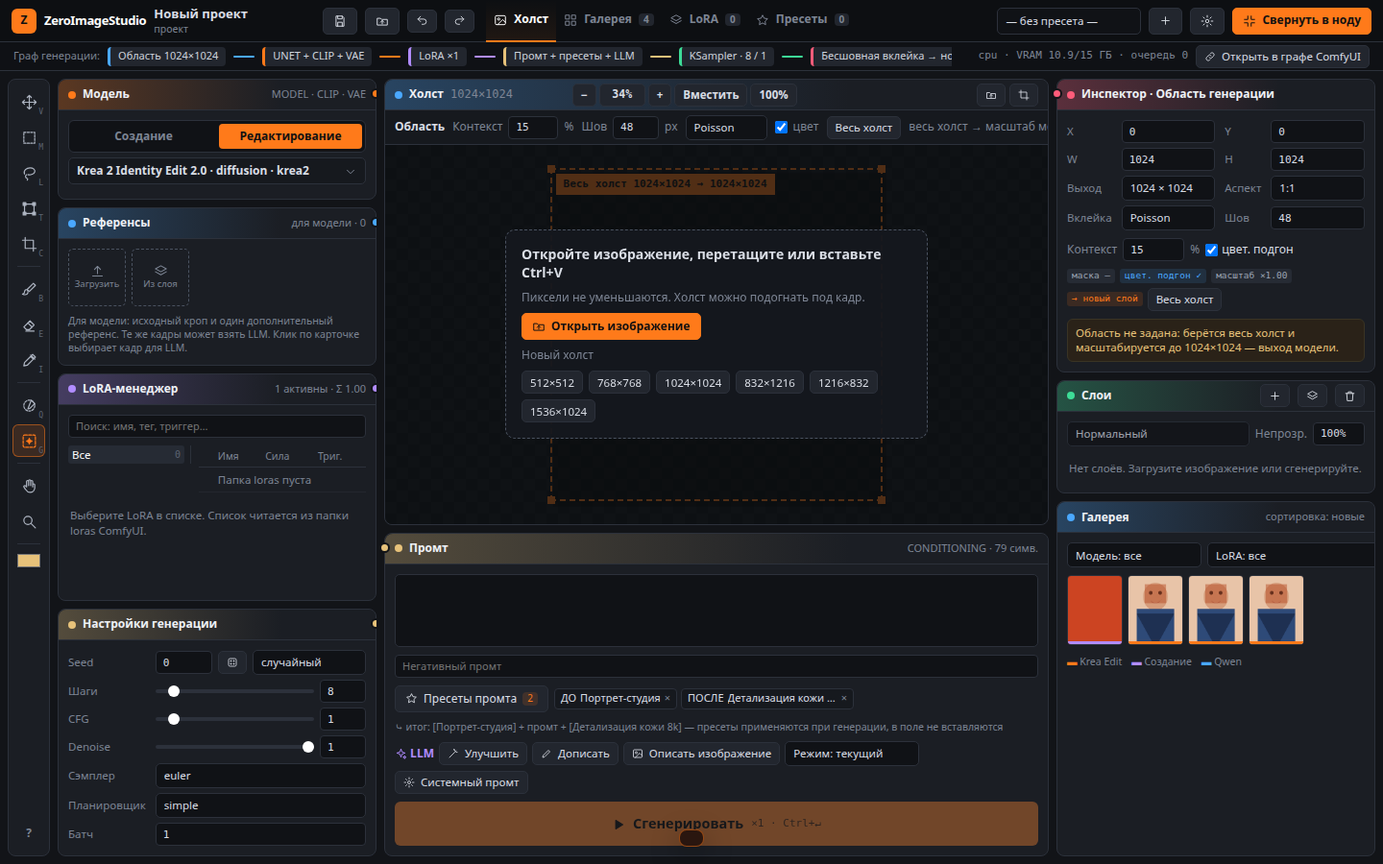
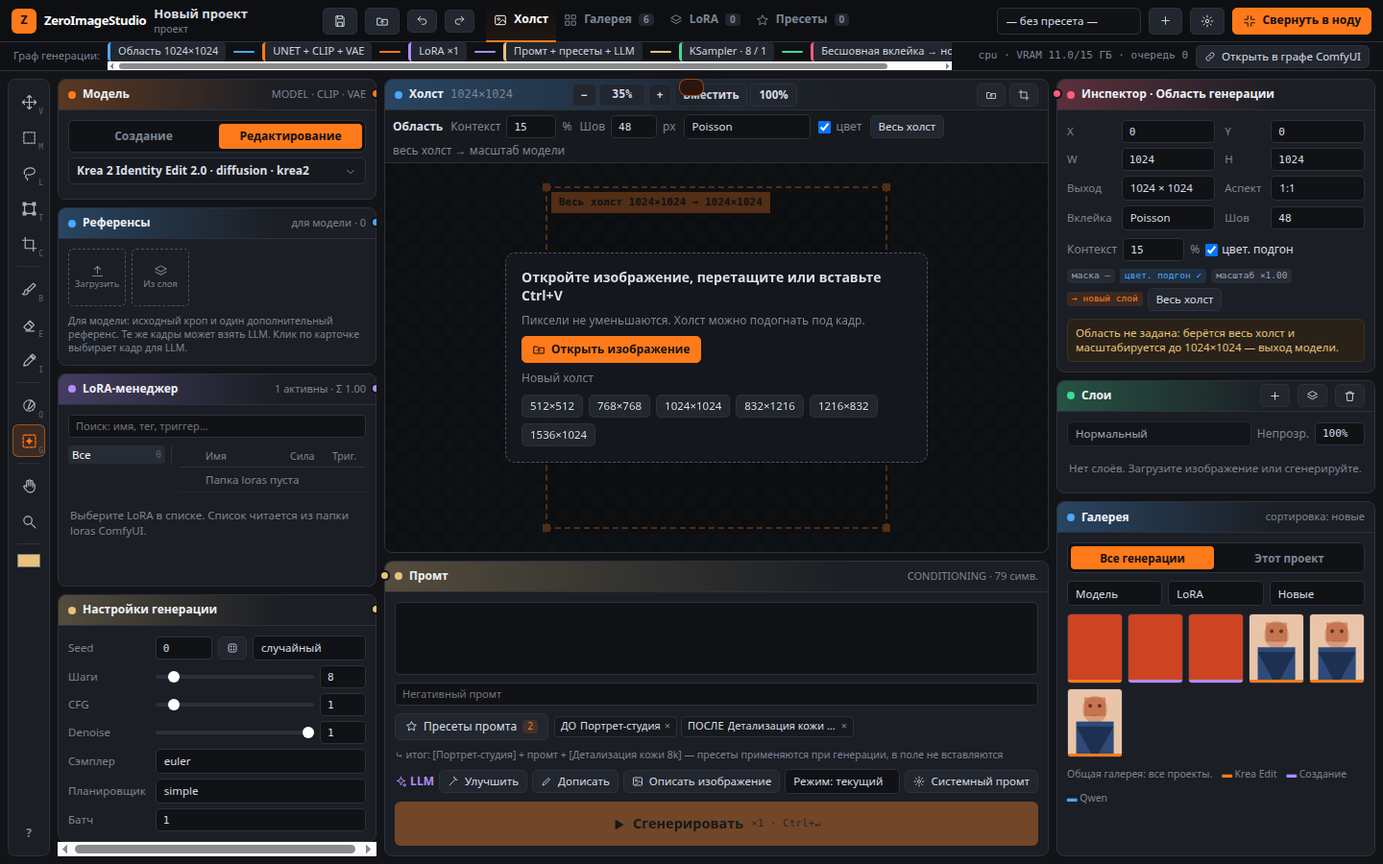
Keep options, gallery filters, and toasts inside the frame.
The tool bar wraps with shorter sliders, gallery filters shrink, toasts sit under the top bar, and the gallery can show every run or only this project.

diff --git a/web/zeroimagestudio.css b/web/zeroimagestudio.css
@@ -17,7 +17,7 @@ button, input, select, textarea { font: inherit; color: inherit; background: non
 button { cursor: pointer; }
 .i { display: inline-block; vertical-align: middle; flex: none; }
 .mono { font-family: "IBM Plex Mono", ui-monospace, monospace; }
-.row { display: flex; align-items: center; gap: 6px; }
+.row { display: flex; align-items: center; gap: 6px; min-width: 0; flex-wrap: wrap; }
 .mu { color: var(--mu); }
 .top {
   height: 44px; background: #0d0f12; border-bottom: 1px solid var(--ln);
@@ -46,7 +46,7 @@ button { cursor: pointer; }
   height: 26px; border-radius: 5px; background: #101216; border: 1px solid var(--ln);
   display: flex; align-items: center; gap: 6px; padding: 0 8px; white-space: nowrap; font-size: 11.5px; color: var(--tx);
 }
-select.dd { appearance: none; }
+select.dd { appearance: none; min-width: 0; max-width: 100%; }
 .pipe {
   height: 30px; background: #0f1115; border-bottom: 1px solid var(--ln);
   display: flex; align-items: center; padding: 0 14px; gap: 8px; font-size: 11px; overflow: hidden;
@@ -69,7 +69,7 @@ select.dd { appearance: none; }
   flex-wrap: nowrap; min-width: 0; overflow: hidden; white-space: nowrap;
 }
 .nh .d { width: 8px; height: 8px; border-radius: 50%; background: var(--c); flex: none; }
-.nh .r { margin-left: auto; display: flex; gap: 8px; align-items: center; color: var(--mu); font-weight: 500; font-size: 11px; }
+.nh .r { margin-left: auto; display: flex; gap: 8px; align-items: center; color: var(--mu); font-weight: 500; font-size: 11px; min-width: 0; overflow: hidden; text-overflow: ellipsis; }
 .sock { position: absolute; width: 11px; height: 11px; border-radius: 50%; background: var(--c); border: 2px solid var(--bg); top: 9px; }
 .sock.l { left: -6px; } .sock.r { right: -6px; }
 .nb { padding: 8px 10px; display: flex; flex-direction: column; gap: 7px; min-height: 0; overflow: auto; }
@@ -93,11 +93,13 @@ select.dd { appearance: none; }
 .mrow {
   display: flex; align-items: center; gap: 8px; padding: 6px 8px; border-radius: 5px;
   border: 1px solid var(--ln); background: #16191e; width: 100%; text-align: left; color: var(--tx);
+  flex-wrap: wrap; row-gap: 4px;
 }
 .mrow.on { border-color: var(--ac); background: var(--ac2); }
 .mrow .rd { width: 12px; height: 12px; border-radius: 50%; border: 2px solid #5d6472; flex: none; }
 .mrow.on .rd { border-color: var(--ac); box-shadow: inset 0 0 0 2px #1b1e24; background: var(--ac); }
-.mrow b { font-weight: 600; } .mrow .tg { margin-left: auto; display: flex; gap: 4px; }
+.mrow b { font-weight: 600; flex: 1 1 auto; min-width: 0; overflow: hidden; text-overflow: ellipsis; white-space: nowrap; }
+.mrow .tg { margin-left: 0; padding-left: 20px; box-sizing: border-box; display: flex; gap: 4px; flex: 1 0 100%; min-width: 0; }
 .tag {
   font-size: 9.5px; padding: 1px 5px; border-radius: 3px; background: #262b34; color: #9aa3b2;
   font-family: "IBM Plex Mono", ui-monospace, monospace; white-space: nowrap;
@@ -107,8 +109,12 @@ select.dd { appearance: none; }
 .tag.tbl { background: rgba(74, 168, 255, .13); color: var(--bl); }
 .tag.tvi { background: rgba(177, 140, 255, .14); color: var(--vi); }
 table { border-collapse: collapse; width: 100%; }
-.lt th { font-weight: 500; color: var(--mu); font-size: 10.5px; text-align: left; padding: 4px 5px; border-bottom: 1px solid var(--ln); white-space: nowrap; }
-.lt td { padding: 5px 5px; border-bottom: 1px solid #23272f; font-size: 11.5px; white-space: nowrap; }
+.lt { table-layout: fixed; }
+.lt th { font-weight: 500; color: var(--mu); font-size: 10.5px; text-align: left; padding: 4px 5px; border-bottom: 1px solid var(--ln); white-space: nowrap; overflow: hidden; text-overflow: ellipsis; }
+.lt td { padding: 5px 5px; border-bottom: 1px solid #23272f; font-size: 11.5px; white-space: nowrap; overflow: hidden; text-overflow: ellipsis; }
+.lt th:first-child, .lt td:first-child { width: 22px; }
+.lt th:nth-child(3), .lt td:nth-child(3) { width: 44px; }
+.lt th:nth-child(4), .lt td:nth-child(4) { width: 40px; }
 .lt tr.on td { background: var(--ac2); }
 .lt tr { cursor: pointer; }
 .cb { width: 13px; height: 13px; border-radius: 3px; border: 1.5px solid #5d6472; display: inline-block; vertical-align: middle; }
@@ -124,8 +130,9 @@ table { border-collapse: collapse; width: 100%; }
   background: #262b34; color: #e7c27a; border: 1px solid #3a3424; font-family: "IBM Plex Mono", ui-monospace, monospace; cursor: pointer;
 }
 .tw.on { color: var(--gr); border-color: #21503c; background: rgba(61, 220, 151, .08); }
-.kv { display: grid; grid-template-columns: auto 1fr; gap: 5px 10px; align-items: center; font-size: 11.5px; }
+.kv { display: grid; grid-template-columns: auto minmax(0, 1fr); gap: 5px 10px; align-items: center; font-size: 11.5px; min-width: 0; }
 .kv > span:nth-child(odd) { color: var(--mu); }
+.kv select, .kv input, .kv .row { min-width: 0; max-width: 100%; }
 .f, input.f, textarea.f {
   height: 24px; border-radius: 4px; background: #101216; border: 1px solid var(--ln);
   display: flex; align-items: center; padding: 0 7px; font-family: "IBM Plex Mono", ui-monospace, monospace; font-size: 11px; gap: 5px; color: var(--tx); min-width: 0;
@@ -134,7 +141,7 @@ textarea.prompt {
   width: 100%; resize: none; height: 62px; padding: 8px 10px; line-height: 1.5; font-family: inherit; font-size: 13px;
   background: #101216; border: 1px solid var(--ln); border-radius: 5px; color: var(--tx);
 }
-input.range { -webkit-appearance: none; appearance: none; height: 4px; border-radius: 2px; background: #2c313b; flex: 1; outline: none; }
+input.range { -webkit-appearance: none; appearance: none; height: 4px; border-radius: 2px; background: #2c313b; flex: 1; min-width: 0; outline: none; }
 input.range::-webkit-slider-thumb { -webkit-appearance: none; width: 12px; height: 12px; border-radius: 50%; background: #fff; cursor: pointer; }
 .stage {
   flex: 1; position: relative; background: #0e1013; border-radius: 0 0 8px 8px; overflow: hidden; min-height: 0;
@@ -210,10 +217,11 @@ input.range::-webkit-slider-thumb { -webkit-appearance: none; width: 12px; heigh
 }
 .modal textarea { min-height: 80px; resize: vertical; }
 .toast {
-  position: fixed; left: 50%; bottom: 18px; transform: translateX(-50%);
+  position: fixed; left: 50%; top: 82px; bottom: auto; transform: translateX(-50%);
   background: #2a160f; border: 1px solid rgba(255, 122, 26, .5); color: #ffd7bf;
   padding: 8px 12px; border-radius: 8px; z-index: 30; max-width: min(640px, calc(100vw - 24px));
-  box-shadow: 0 10px 30px rgba(0, 0, 0, .4);
+  box-shadow: 0 10px 30px rgba(0, 0, 0, .4); flex-wrap: wrap; justify-content: center;
+  pointer-events: auto;
 }
 .banner {
   background: #2a2218; color: #e7c27a; border: 1px solid #3a3424; border-radius: 6px; padding: 6px 8px; font-size: 11.5px;
@@ -228,14 +236,15 @@ body[data-tab="gallery"] .left, body[data-tab="gallery"] .center, body[data-tab=
 body[data-tab="gallery"] .right { width: auto !important; flex: 1; }
 body[data-tab="gallery"] .gal { grid-template-columns: repeat(auto-fill, minmax(120px, 1fr)); }
 .left, .right, .center { min-height: 0; min-width: 0; }
+.right .node, .left .node, .center .node { min-width: 0; max-width: 100%; }
 .left { width: 400px; display: flex; flex-direction: column; gap: 8px; flex: none; }
 .right { width: 400px; display: flex; flex-direction: column; gap: 8px; flex: none; }
 .center { flex: 1; display: flex; flex-direction: column; gap: 8px; min-width: 0; }
 details.adv { color: var(--mu); }
 details.adv summary { cursor: pointer; font-size: 11px; }
 .files { display: flex; flex-direction: column; gap: 4px; }
-.files label { display: grid; grid-template-columns: 72px 1fr; gap: 6px; align-items: center; font-size: 11px; color: var(--mu); }
-.files select, .files input { width: 100%; }
+.files label { display: grid; grid-template-columns: 72px minmax(0, 1fr); gap: 6px; align-items: center; font-size: 11px; color: var(--mu); min-width: 0; }
+.files select, .files input { width: 100%; min-width: 0; max-width: 100%; }
 .empty { color: var(--mu); font-size: 11.5px; padding: 8px 2px; }
 .progress-line { height: 3px; background: #3a2a22; border-radius: 2px; overflow: hidden; }
 .progress-line i { display: block; height: 100%; background: var(--ac); width: 0%; }
@@ -272,7 +281,7 @@ body { min-width: 0; }
 .left { overflow-y: auto; }
 .lora-node { flex: 1 1 auto; min-height: 200px; }
 #sampler-box .row { min-width: 0; }
-#seed-mode { width: auto; min-width: 118px; flex: none; }
+#seed-mode { width: auto; min-width: 0; max-width: 100%; flex: 0 1 118px; }
 textarea.prompt { height: 76px; }
 .model-sum {
   display: flex; align-items: center; gap: 8px; width: 100%; min-height: 28px; padding: 4px 8px;
@@ -325,12 +334,17 @@ textarea.prompt { height: 76px; }
 .zoom-read { min-width: 48px; justify-content: center; font-family: "IBM Plex Mono", ui-monospace, monospace; }
 .canvas-head .r { flex: none; gap: 4px; min-width: 0; }
 .opts {
-  flex: none; min-height: 36px; display: flex; align-items: center; gap: 8px; flex-wrap: nowrap;
-  padding: 4px 10px; border-bottom: 1px solid var(--ln); background: #16191e; overflow-x: auto; overflow-y: hidden;
+  flex: none; display: flex; align-items: center; align-content: center; gap: 6px 10px; flex-wrap: wrap;
+  padding: 5px 10px; border-bottom: 1px solid var(--ln); background: #16191e;
+  overflow: visible; min-width: 0; max-width: 100%;
 }
+.opts > * { min-width: 0; max-width: 100%; }
 .opts .mu { white-space: nowrap; }
-.opts label { display: inline-flex; align-items: center; gap: 6px; white-space: nowrap; color: var(--mu); }
-.opts input.range { width: 88px; flex: none; }
+.opts b { flex: none; }
+.opts label { display: inline-flex; align-items: center; gap: 6px; white-space: nowrap; color: var(--mu); flex: 0 1 auto; }
+.opts input.range { width: 72px; min-width: 48px; flex: none; }
+.opts select.dd { flex: 0 1 132px; width: auto; min-width: 0; max-width: 100%; }
+.opts input.f { width: auto; max-width: 64px; }
 .empty-stage {
   position: absolute; inset: 0; z-index: 4; display: flex; align-items: center; justify-content: center;
   background: rgba(14, 16, 19, .72); padding: 16px;
@@ -368,7 +382,40 @@ textarea.prompt { height: 76px; }
 .left, .right, .center { gap: 8px; }
 .nb { padding: 10px; gap: 8px; }
 .empty-gal { color: var(--mu); padding: 18px 8px; line-height: 1.45; }
+.gal-scope {
+  display: flex; gap: 4px; min-width: 0; width: 100%;
+  background: #101216; border: 1px solid var(--ln); border-radius: 6px; padding: 3px;
+}
+.gal-scope button {
+  flex: 1 1 0; min-width: 0; height: 24px; border-radius: 4px; color: var(--mu);
+  font-weight: 700; font-size: 11.5px; padding: 0 6px;
+  overflow: hidden; text-overflow: ellipsis; white-space: nowrap;
+}
+.gal-scope button.on { background: var(--ac); color: #111; }
+.gal-filters { width: 100%; min-width: 0; flex-wrap: nowrap; }
+.gal-filters select {
+  flex: 1 1 0; width: 0; min-width: 0; max-width: 100%;
+  overflow: hidden; text-overflow: ellipsis;
+}
+.layer-blend { width: 100%; min-width: 0; flex-wrap: nowrap; }
+.layer-blend select { flex: 1 1 auto; min-width: 0; width: 0; max-width: 100%; }
+.layer-blend .mu { flex: none; }
+.layer-blend input { width: 52px; flex: none; }
+.llm-row { width: 100%; }
+.llm-row #llm-preset { width: auto; flex: 1 1 96px; min-width: 0; max-width: 180px; }
+.lora-split { display: flex; align-items: flex-start; gap: 8px; min-width: 0; width: 100%; }
+.lora-split .tree { width: 108px; flex: none; border-right: 1px solid var(--ln); padding-right: 6px; max-height: 180px; overflow: auto; }
+.lora-split .lora-table { flex: 1; min-width: 0; max-height: 180px; overflow: auto; }
+.preset-cols { display: flex; align-items: flex-start; gap: 16px; min-width: 0; width: 100%; }
+.preset-cols > div { flex: 1 1 280px; min-width: 0; }
+.preset-cols .row { flex-wrap: nowrap; }
+.preset-cols .row .b { flex: none; }
+.preset-cols input, .preset-cols textarea { min-width: 0; max-width: 100%; }
+#inspector .row { min-width: 0; }
+#inspector select, #inspector input { min-width: 0; max-width: 100%; }
 @media (max-width: 1500px) {
   .canvas-head .btn-label { display: none; }
+  .opts input.range { width: 48px; min-width: 40px; }
+  .opts { gap: 4px 8px; padding: 4px 8px; }
 }
 .toolcol { overflow: auto; }

diff --git a/web/zeroimagestudio_app.js b/web/zeroimagestudio_app.js
@@ -40,6 +40,7 @@
     loraSelected: "",
     presets: [],
     gallery: [],
+    galleryScope: "all",
     settings: null,
     running: false,
     promptId: null,
@@ -891,7 +892,7 @@
     host.innerHTML = list.map((h) => {
       const on = h.id === state.hintId;
       const tags = hintTags(h, state.pipeline).map((t, i) => `<span class="tag ${on && i === 0 ? "to" : ""}">${escapeHtml(t)}</span>`).join("");
-      return `<button type="button" class="mrow ${on ? "on" : ""}" data-hint="${h.id}"><span class="rd"></span><b>${escapeHtml(h.name)}</b><span class="tg">${tags}</span></button>`;
+      return `<button type="button" class="mrow ${on ? "on" : ""}" data-hint="${h.id}" title="${escapeHtml(h.name)}"><span class="rd"></span><b>${escapeHtml(h.name)}</b><span class="tg">${tags}</span></button>`;
     }).join("") || '<div class="empty">Нет моделей для этого режима.</div>';
   }
 
@@ -1021,9 +1022,9 @@
     const detail = sel ? loraDetail(sel) : `<div class="empty">Выберите LoRA в списке. Список читается из папки loras ComfyUI.</div>`;
     $("lora-panel").innerHTML = `
       <div class="row"><input id="lora-search" class="f" style="flex:1;font-family:inherit" placeholder="Поиск: имя, тег, триггер…" value="${escapeHtml(state.loraQuery)}"></div>
-      <div class="row" style="align-items:flex-start;gap:8px;min-height:0">
-        <div class="tree" style="width:128px;border-right:1px solid var(--ln);padding-right:6px;max-height:180px;overflow:auto">${tree}</div>
-        <div style="flex:1;min-width:0;max-height:180px;overflow:auto">
+      <div class="lora-split">
+        <div class="tree">${tree}</div>
+        <div class="lora-table">
           <table class="lt"><tr><th></th><th>Имя</th><th>Сила</th><th>Триг.</th></tr>${rows || `<tr><td></td><td class="mu" colspan="3">${files.length ? "Ничего не найдено" : "Папка loras пуста"}</td></tr>`}</table>
         </div>
       </div>
@@ -1115,7 +1116,7 @@
     const a = state.area;
     const scale = (g.w > 0) ? (a.outW / g.w) : 1;
     $("inspector").innerHTML = `
-      <div class="kv" style="grid-template-columns:auto 1fr auto 1fr">
+      <div class="kv" style="grid-template-columns:auto minmax(0,1fr) auto minmax(0,1fr)">
         <span>X</span><input id="gx" class="f" value="${g.x}"><span>Y</span><input id="gy" class="f" value="${g.y}">
         <span>W</span><input id="gw" class="f" value="${g.w}"><span>H</span><input id="gh" class="f" value="${g.h}">
         <span>Выход</span><select id="gout" class="dd">${[[1024,1024],[768,768],[512,512],[1056,1056],[1280,720],[832,1216],[1536,1024]].map(([w,h]) => `<option ${a.outW===w&&a.outH===h?"selected":""} value="${w}x${h}">${w} × ${h}</option>`).join("")}<option value="custom" ${[[1024,1024],[768,768],[512,512],[1056,1056],[1280,720],[832,1216],[1536,1024]].some(([w,h])=>w===a.outW&&h===a.outH)?"":"selected"}>свои</option></select>
@@ -1595,37 +1596,58 @@
     $("preset-count").textContent = String(state.presets.length);
   }
 
+  function galleryInProject(it) {
+    const pid = state.projectId || "";
+    return !!pid && (it.meta.project_id || "") === pid;
+  }
+
   function renderGallery() {
     const host = $("gal");
-    let items = state.gallery.slice();
+    const scope = state.galleryScope === "project" ? "project" : "all";
+    document.querySelectorAll("#gal-scope button").forEach((b) => b.classList.toggle("on", b.dataset.scope === scope));
+    const allReal = state.gallery.filter((it) => !it.example);
+    const projectReal = allReal.filter(galleryInProject);
+    const scopeAll = $("gal-scope").querySelector('[data-scope="all"]');
+    const scopeProject = $("gal-scope").querySelector('[data-scope="project"]');
+    if (scopeAll) scopeAll.textContent = "Все генерации";
+    if (scopeProject) scopeProject.textContent = "Этот проект";
+    let items = (scope === "project" ? projectReal : allReal).slice();
     const model = $("gal-model").value;
     const lora = $("gal-lora").value;
     if (model) items = items.filter((it) => (it.meta.model_label || it.meta.unet || "") === model);
     if (lora) items = items.filter((it) => (it.meta.loras || []).some((l) => l.name === lora));
     if ($("gal-sort").value === "old") items.reverse();
-    const real = items.filter((it) => !it.example);
     const colors = { krea2_edit: "#ff7a1a", qwen_image_21: "#4aa8ff", create: "#b18cff" };
-    if (!real.length) {
-      if (new URLSearchParams(location.search).get("demo") === "1") {
+    const scopeNote = scope === "project"
+      ? "Только кадры этого проекта."
+      : "Общая галерея: все проекты.";
+    if (!items.length) {
+      if (scope === "all" && new URLSearchParams(location.search).get("demo") === "1" && !allReal.length) {
         const examples = ["portrait-copper.svg", "portrait-blond.svg", "portrait-blue.svg", "portrait.svg", "portrait-green.svg"];
         host.innerHTML = examples.map((s, i) => `<button type="button" class="g" data-example="1"><img src="assets/${s}" alt=""><s style="background:${["#ff7a1a","#b18cff","#4aa8ff","#7d8594","#3ddc97"][i]}"></s></button>`).join("");
         $("gal-legend").innerHTML = "<span>Демо-оформление (?demo=1), не генерации.</span>";
+      } else if (scope === "project") {
+        host.innerHTML = `<div class="empty-gal">В этом проекте ещё нет генераций. Общие кадры из других запусков — в «Все генерации».</div>`;
+        $("gal-legend").innerHTML = `<span>${scopeNote}</span>`;
       } else {
         host.innerHTML = `<div class="empty-gal">Галерея пуста. После генерации здесь будут ваши кадры с промтом и сидом.</div>`;
-        $("gal-legend").innerHTML = "";
+        $("gal-legend").innerHTML = `<span>${scopeNote}</span>`;
       }
     } else {
-      host.innerHTML = real.map((it) => {
+      host.innerHTML = items.map((it) => {
         const col = colors[it.meta.edit_method] || colors[it.meta.pipeline] || "#7d8594";
         return `<button type="button" class="g" data-gal="${it.id}"><img src="/view?filename=${encodeURIComponent(it.file.split("/").pop())}&type=output&subfolder=zeroimagestudio/gallery"><s style="background:${col}"></s></button>`;
       }).join("");
-      $("gal-legend").innerHTML = `<span><b style="color:#ff7a1a">▬</b> Krea Edit</span><span><b style="color:#b18cff">▬</b> Создание</span><span><b style="color:#4aa8ff">▬</b> Qwen</span>`;
+      $("gal-legend").innerHTML = `<span>${scopeNote}</span><span><b style="color:#ff7a1a">▬</b> Krea Edit</span><span><b style="color:#b18cff">▬</b> Создание</span><span><b style="color:#4aa8ff">▬</b> Qwen</span>`;
     }
-    $("gal-count").textContent = String(real.length);
-    const models = [...new Set(state.gallery.map((it) => it.meta.model_label || it.meta.unet).filter(Boolean))];
-    const loras = [...new Set(state.gallery.flatMap((it) => (it.meta.loras || []).map((l) => l.name)))];
-    fillSelect($("gal-model"), ["", ...models], model, "Модель: все");
-    fillSelect($("gal-lora"), ["", ...loras], lora, "LoRA: все");
+    $("gal-count").textContent = String(scope === "project" ? projectReal.length : allReal.length);
+    const pool = scope === "project" ? projectReal : allReal;
+    const models = [...new Set(pool.map((it) => it.meta.model_label || it.meta.unet).filter(Boolean))];
+    const loras = [...new Set(pool.flatMap((it) => (it.meta.loras || []).map((l) => l.name)))];
+    fillSelect($("gal-model"), ["", ...models], model, "Модель");
+    fillSelect($("gal-lora"), ["", ...loras], lora, "LoRA");
+    const sort = $("gal-sort");
+    if (sort) sort.title = sort.value === "old" ? "Сначала старые" : "Сначала новые";
   }
 
   function fillSelect(sel, values, current, placeholder) {
@@ -1918,6 +1940,7 @@
       loader: c.loader, unet: c.unet, clip: c.clip, vae: c.vae, checkpoint: c.checkpoint, clip_type: c.clip_type,
       loras: (c.loras || []).filter((l) => l.enabled).map((l) => ({ name: l.name, strength_model: l.strength_model, strength_clip: l.strength_clip })),
       width: spec.width, height: spec.height,
+      project_id: state.projectId || "",
       created: Math.floor(Date.now() / 1000),
     };
   }
@@ -2467,11 +2490,11 @@
   function renderPresetPage() {
     const host = $("preset-page");
     if (!host) return;
-    host.innerHTML = `<div class="row" style="align-items:flex-start;gap:16px">
-      <div style="flex:1"><b>Пресеты генерации</b><div class="mu">Модель, LoRA, сэмплер, область. Холст не входит.</div>
+    host.innerHTML = `<div class="preset-cols">
+      <div><b>Пресеты генерации</b><div class="mu">Модель, LoRA, сэмплер, область. Холст не входит.</div>
         ${state.presets.map((p) => `<div class="row" style="margin-top:6px"><button class="b" data-load-preset="${p.id}">${escapeHtml(p.name)}</button><button class="b s" data-del-preset="${p.id}">удалить</button></div>`).join("") || `<div class="empty">Пока пусто. «Сохранить как» в шапке.</div>`}
       </div>
-      <div style="flex:1"><b>Пресеты промта</b><div class="mu">Вставляются до или после текста только в момент генерации.</div>
+      <div><b>Пресеты промта</b><div class="mu">Вставляются до или после текста только в момент генерации.</div>
         ${state.promptPresets.map((p) => `<div class="row" style="margin-top:6px"><span class="tag">${p.position === "after" ? "ПОСЛЕ" : "ДО"}</span><input class="f" style="flex:1" data-pp-name="${p.id}" value="${escapeHtml(p.name)}"><button class="b s" data-pp-del="${p.id}">×</button></div><textarea class="f" style="height:48px;width:100%;margin-top:4px" data-pp-text="${p.id}">${escapeHtml(p.text)}</textarea>`).join("")}
       </div></div>`;
   }
@@ -2840,6 +2863,12 @@
       if (!b) return;
       const it = state.gallery.find((x) => x.id === b.dataset.gal);
       if (it) showPop(it, b);
+    };
+    $("gal-scope").onclick = (e) => {
+      const b = e.target.closest("[data-scope]");
+      if (!b || b.dataset.scope === state.galleryScope) return;
+      state.galleryScope = b.dataset.scope === "project" ? "project" : "all";
+      renderGallery();
     };
     $("gal-model").onchange = renderGallery;
     $("gal-lora").onchange = renderGallery;

diff --git a/web/zeroimagestudio.html b/web/zeroimagestudio.html
@@ -184,12 +184,12 @@
           </div>
         </div>
         <div class="mu" id="prompt-final" style="font-size:10.5px"></div>
-        <div class="row" style="gap:5px;flex-wrap:wrap">
+        <div class="row llm-row" style="gap:5px">
           <span style="color:var(--vi);font-weight:700" data-i="spark" data-s="13"> LLM</span>
           <button class="b s" id="llm-improve" data-i="wand" data-s="12">Улучшить</button>
           <button class="b s" id="llm-extend" data-i="pen" data-s="12">Дописать</button>
           <button class="b s" id="llm-describe" data-i="image" data-s="12">Описать изображение</button>
-          <select id="llm-preset" class="dd" style="width:140px"></select>
+          <select id="llm-preset" class="dd" title="Пресет LLM"></select>
           <button class="b s" id="btn-system" data-i="gear" data-s="12">Системный промт</button>
         </div>
         <div class="progress-line" id="gen-progress" style="display:none"><i></i></div>
@@ -215,10 +215,10 @@
         </span>
       </div>
       <div class="nb" style="gap:3px">
-        <div class="row" style="margin-bottom:4px">
-          <select id="layer-blend" class="dd" style="flex:1"></select>
+        <div class="row layer-blend" style="margin-bottom:4px">
+          <select id="layer-blend" class="dd"></select>
           <span class="mu">Непрозр.</span>
-          <input id="layer-opacity" class="f" style="width:54px" value="100%">
+          <input id="layer-opacity" class="f" value="100%">
         </div>
         <div id="layer-list" style="display:flex;flex-direction:column;gap:3px"></div>
       </div>
@@ -226,12 +226,16 @@
     <div class="node" style="--c:#4aa8ff;flex:1">
       <div class="nh"><span class="d"></span>Галерея<span class="r" id="gal-sort-label">сортировка: новые</span></div>
       <div class="nb">
-        <div class="row">
-          <select id="gal-model" class="dd" style="flex:1"></select>
-          <select id="gal-lora" class="dd" style="flex:1"></select>
-          <select id="gal-sort" class="dd" style="width:110px">
-            <option value="new">Сначала новые</option>
-            <option value="old">Сначала старые</option>
+        <div class="gal-scope" id="gal-scope" role="group" aria-label="Чьи генерации показывать">
+          <button type="button" data-scope="all" class="on">Все генерации</button>
+          <button type="button" data-scope="project">Этот проект</button>
+        </div>
+        <div class="row gal-filters">
+          <select id="gal-model" class="dd" title="Фильтр по модели"></select>
+          <select id="gal-lora" class="dd" title="Фильтр по LoRA"></select>
+          <select id="gal-sort" class="dd" title="Сначала новые">
+            <option value="new">Новые</option>
+            <option value="old">Старые</option>
           </select>
         </div>
         <div class="gal" id="gal"></div>

diff --git a/README.md b/README.md
@@ -125,7 +125,7 @@ git clone https://github.com/zeroleloushe/ZeroImageStudio.git
 - Прямоугольник области задаёт выходной размер, аспект, запас контекста и способ вклейки.
 - У слоёв есть видимость, замок, непрозрачность, режим наложения, дубль, удаление и перетаскивание порядка. Отмена и повтор хранят 20 шагов.
 - Референс берётся из файла или с активного слоя. Заголовок панели говорит, для кого кадр: «для LLM-промта» или «для модели».
-- Галерея пишет PNG в `output/zeroimagestudio/gallery` с промтом, сидом, моделью и LoRA. **Применить заново** подставляет настройки и не запускает задачу.
+- Галерея пишет PNG в `output/zeroimagestudio/gallery` с промтом, сидом, моделью и LoRA. Это общая папка всех проектов: переключатель **Все генерации** / **Этот проект** фильтрует кадры (старые записи без проекта видны только в общем списке). **Применить заново** подставляет настройки и не запускает задачу.
 - **Сохранить** кладёт проект в `user/zeroimagestudio/projects` и скачивает zip.
 - Пресет генерации хранит модель, LoRA, сэмплер и область, но не пиксели холста. Пресеты промта оборачивают текст только в момент постановки в очередь.
 - Список LoRA — дерево `models/loras`. **Civitai info** считает хеш файла и читает публичный API версии модели. Триггеры можно вставить в начало, в конец или не вставлять.
